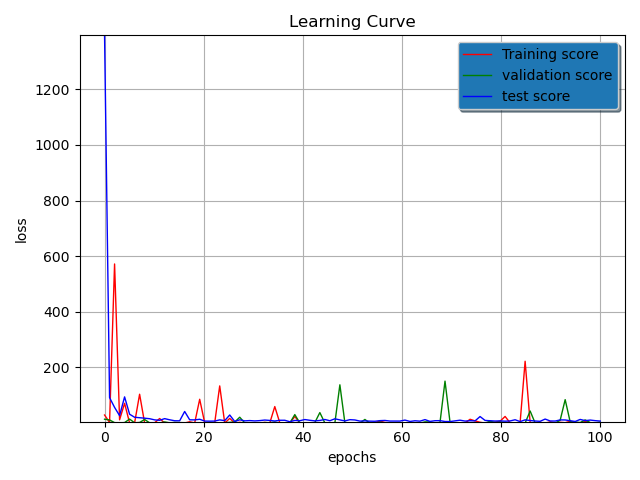
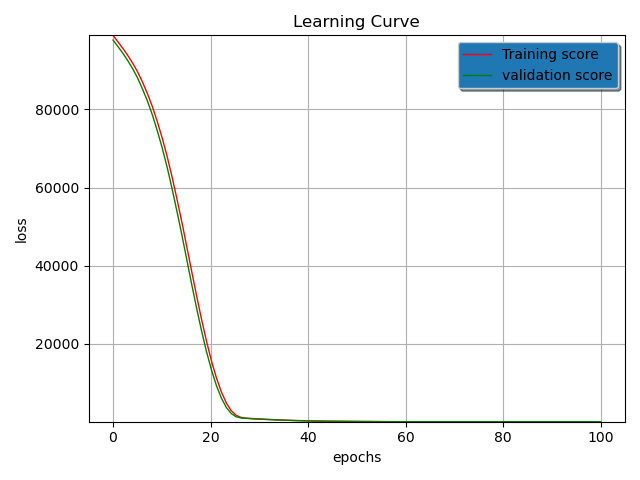
trained 4

diff --git a/preprocessing.py b/preprocessing.py
@@ -124,6 +124,9 @@ def SRAFData():
             return result/len(lst)
         except KeyError:
             return 0
+        except IndexError:
+            return 0
+
     for s in sentiments.keys():
         df[s] =  df.apply(lambda x : getSRAFData(x, s), axis=1)
     df = df.drop('t', axis=1)
@@ -131,11 +134,73 @@ def SRAFData():
     df = df.sample(frac=1, random_state=0)
     df.to_pickle('sraf.pkl')
 
+def allData():
+        with open('date_to_moods.json') as f:
+            moods = json.load(f)
+        with open('finbert.json') as f:
+            finbertJSON = json.load(f)
+        with open('date_to_company_to_vader.json') as f:
+            vaderJSON = json.load(f)
+        with open('date_to_company_to_sraf.json') as f:
+            srafJSON = json.load(f)
+        df = pd.read_csv('combined_prices.csv', names=header)
+        df = df.drop('drop', axis=1)
+        df['calm'] = df.apply(lambda x: moods.get(x['t'], [0, 0, 0, 0])[0], axis=1)
+        df['happy'] = df.apply(lambda x: moods.get(x['t'], [0, 0, 0, 0])[1], axis=1)
+        df['alert'] = df.apply(lambda x: moods.get(x['t'], [0, 0, 0, 0])[2], axis=1)
+        df['kind'] = df.apply(lambda x: moods.get(x['t'], [0, 0, 0, 0])[3], axis=1)
+        def getFinData(x, dataName):
+            try:
+                lst = finbertJSON[x['t']][x['company']]
+                result = 0
+                for l in lst:
+                    result += l['finbert'][dataName]
+                return result / len(lst)
+            except KeyError:
+                return 0
+        df['finbert_negative'] = df.apply(lambda x: getFinData(x, 'negative'), axis=1)
+        df['finbert_neutral'] = df.apply(lambda x: getFinData(x, 'neutral'), axis=1)
+        df['finbert_positive'] = df.apply(lambda x: getFinData(x, 'positive'), axis=1)
+        df['finbert_sentiment_score'] = df.apply(lambda x: getFinData(x, 'sentiment_score'), axis=1)
+        def getVaderData(x, dataName):
+            try:
+                lst = vaderJSON[x['t']][x['company']]
+                result = 0
+                for l in lst:
+                    result += l['vader'][dataName]
+                return result / len(lst)
+            except KeyError:
+                return 0
+        df['vader_negative'] = df.apply(lambda x: getVaderData(x, 'neg'), axis=1)
+        df['vader_neutral'] = df.apply(lambda x: getVaderData(x, 'neu'), axis=1)
+        df['vader_positive'] = df.apply(lambda x: getVaderData(x, 'pos'), axis=1)
+        sentiments = {"sraf_negative": 0, "sraf_positive": 1, "sraf_uncertainty": 2, "sraf_litigious": 3,
+                      "sraf_strongamodal": 4, "sraf_weakmodal": 5, "sraf_constraining": 6}
+
+        def getSRAFData(x, dataName):
+            try:
+                lst = srafJSON[x['t']][x['company']]
+                result = 0
+                for l in lst:
+                    result += l['sraf'][sentiments[dataName]]
+                return result / len(lst)
+            except KeyError:
+                return 0
+            except IndexError:
+                return 0
+        for s in sentiments.keys():
+            df[s] = df.apply(lambda x: getSRAFData(x, s), axis=1)
+        df = df.drop('t', axis=1)
+        df = df.drop('company', axis=1)
+        df = df.sample(frac=1, random_state=0)
+        df.to_pickle('alldata.pkl')
+
 # moodData()
 # finberData()
-vaderData()
-SRAFData()
-df = pd.read_pickle('mood.pkl')
+# vaderData()
+# SRAFData()
+
+df = pd.read_pickle('sraf.pkl')
 print(df.head)
 df = df.dropna()
 ts = 0.2

diff --git a/create_neural_network.py b/create_neural_network.py
@@ -12,9 +12,19 @@ from tensorflow.python.client import device_lib
 from keras.models import save_model
 print(device_lib.list_local_devices())
 # Hpyerparameter Optimization:
-# round 1: lr=0.0033,num_Nodes=12,dropout=1,loss='mean_Squared_error'
-# round 2: lr=0.0066,num_Nodes=18, dropout=0.3,final_activation='sigmoid', loss='categorical_crossentropy'
-def create_network(lr=0.003, num_Nodes=12, dropout=0.2, final_activation='relu',
+# mood: lr=0.000003, num_Nodes=12, dropout=0.2, final_activation='relu',
+#                    loss_function='mean_squared_error', 1 layer relu.
+# testing result: [0.03302876278758049, 0.03302876278758049]
+# finbert: lr=0.000009, num_Nodes=12, dropout=0.2, final_activation='relu',
+#                    loss_function='mean_squared_error', 1 layer relu.
+#  testing result: [0.03783221170306206, 0.03783221170306206]
+# vader: lr=0.000003, num_Nodes=12, dropout=0.2, final_activation='relu',
+#                    loss_function='mean_squared_error', n=n
+# testing result: [0.03601681813597679, 0.03601681813597679]
+# sraf: lr=0.000003, num_Nodes=12, dropout=0.2, final_activation='relu',
+#                    loss_function='mean_squared_error', n=n
+# testing result: [0.03323354199528694, 0.03323354199528694]
+def create_network(lr=0.000003, num_Nodes=12, dropout=0.2, final_activation='relu',
                    loss_function='mean_squared_error', n=n):
 
     model = Sequential()
@@ -37,14 +47,14 @@ val_scores = []
 train_loss = LambdaCallback(on_epoch_end=lambda batch, logs: train_scores.append(logs['loss']))
 val_loss = LambdaCallback(on_epoch_end=lambda batch, logs: val_scores.append(logs['val_loss']))
 earlystopper = EarlyStopping(monitor='val_loss', patience=epochs/10)
-final_model.fit(x_train,y_train,epochs=epochs, validation_split=0.2, batch_size=500, verbose=1,
+final_model.fit(x_train,y_train,epochs=epochs, validation_split=0.2, batch_size=1000, verbose=1,
                 callbacks=[train_loss, val_loss])
 
 #retrain for all training data and save the model
 test_scores = []
 final_model = create_network()
 test_loss = LambdaCallback(on_epoch_end=lambda batch, logs: test_scores.append(final_model.evaluate(x_test, y_test)[0]))
-final_model.fit(x_train, y_train, epochs=epochs, batch_size=1000, verbose=0,callbacks=[test_loss])
+final_model.fit(x_train, y_train, epochs=epochs, batch_size=1000, verbose=1)
 print("testing result:",final_model.evaluate(x_test, y_test))
 #save_model(final_model, 'model509b.h5')
 
@@ -63,12 +73,12 @@ plt.grid()
 plt.ylabel("loss")
 plt.xlabel("epochs")
 plt.ylim(top=max(train_scores),bottom=min(train_scores))
-plt.plot(np.linspace(0,len(train_scores),len(train_scores)), test_scores, linewidth=1, color="r",
+plt.plot(np.linspace(0,len(train_scores),len(train_scores)), train_scores, linewidth=1, color="r",
          label="Training score")
 plt.plot(np.linspace(0,len(val_scores),len(val_scores)), val_scores, linewidth=1, color="g",
           label="validation score")
-plt.plot(np.linspace(0,len(test_scores),len(test_scores)), train_scores, linewidth=1, color="b",
-          label="test score")
+# plt.plot(np.linspace(0,len(test_scores),len(test_scores)), test_scores, linewidth=1, color="b",
+#           label="test score")
 legend = plt.legend(loc='upper right', shadow=True, fontsize='medium')
 legend.get_frame().set_facecolor('C0')
 

diff --git a/src/finbert/run_finbert.py b/src/finbert/run_finbert.py
@@ -33,7 +33,7 @@ for company in keys:
         text = article['text']
         text = text.replace('\t', '')
         text = text.replace('\0', '')
-        if summarize:
+        if summarize and len(text) > 0:
             text = text_summarization.summarize(text)
         finbert_score = predict(text=text, model=model, write_to_csv=False, path=None)
         print(finbert_score)
